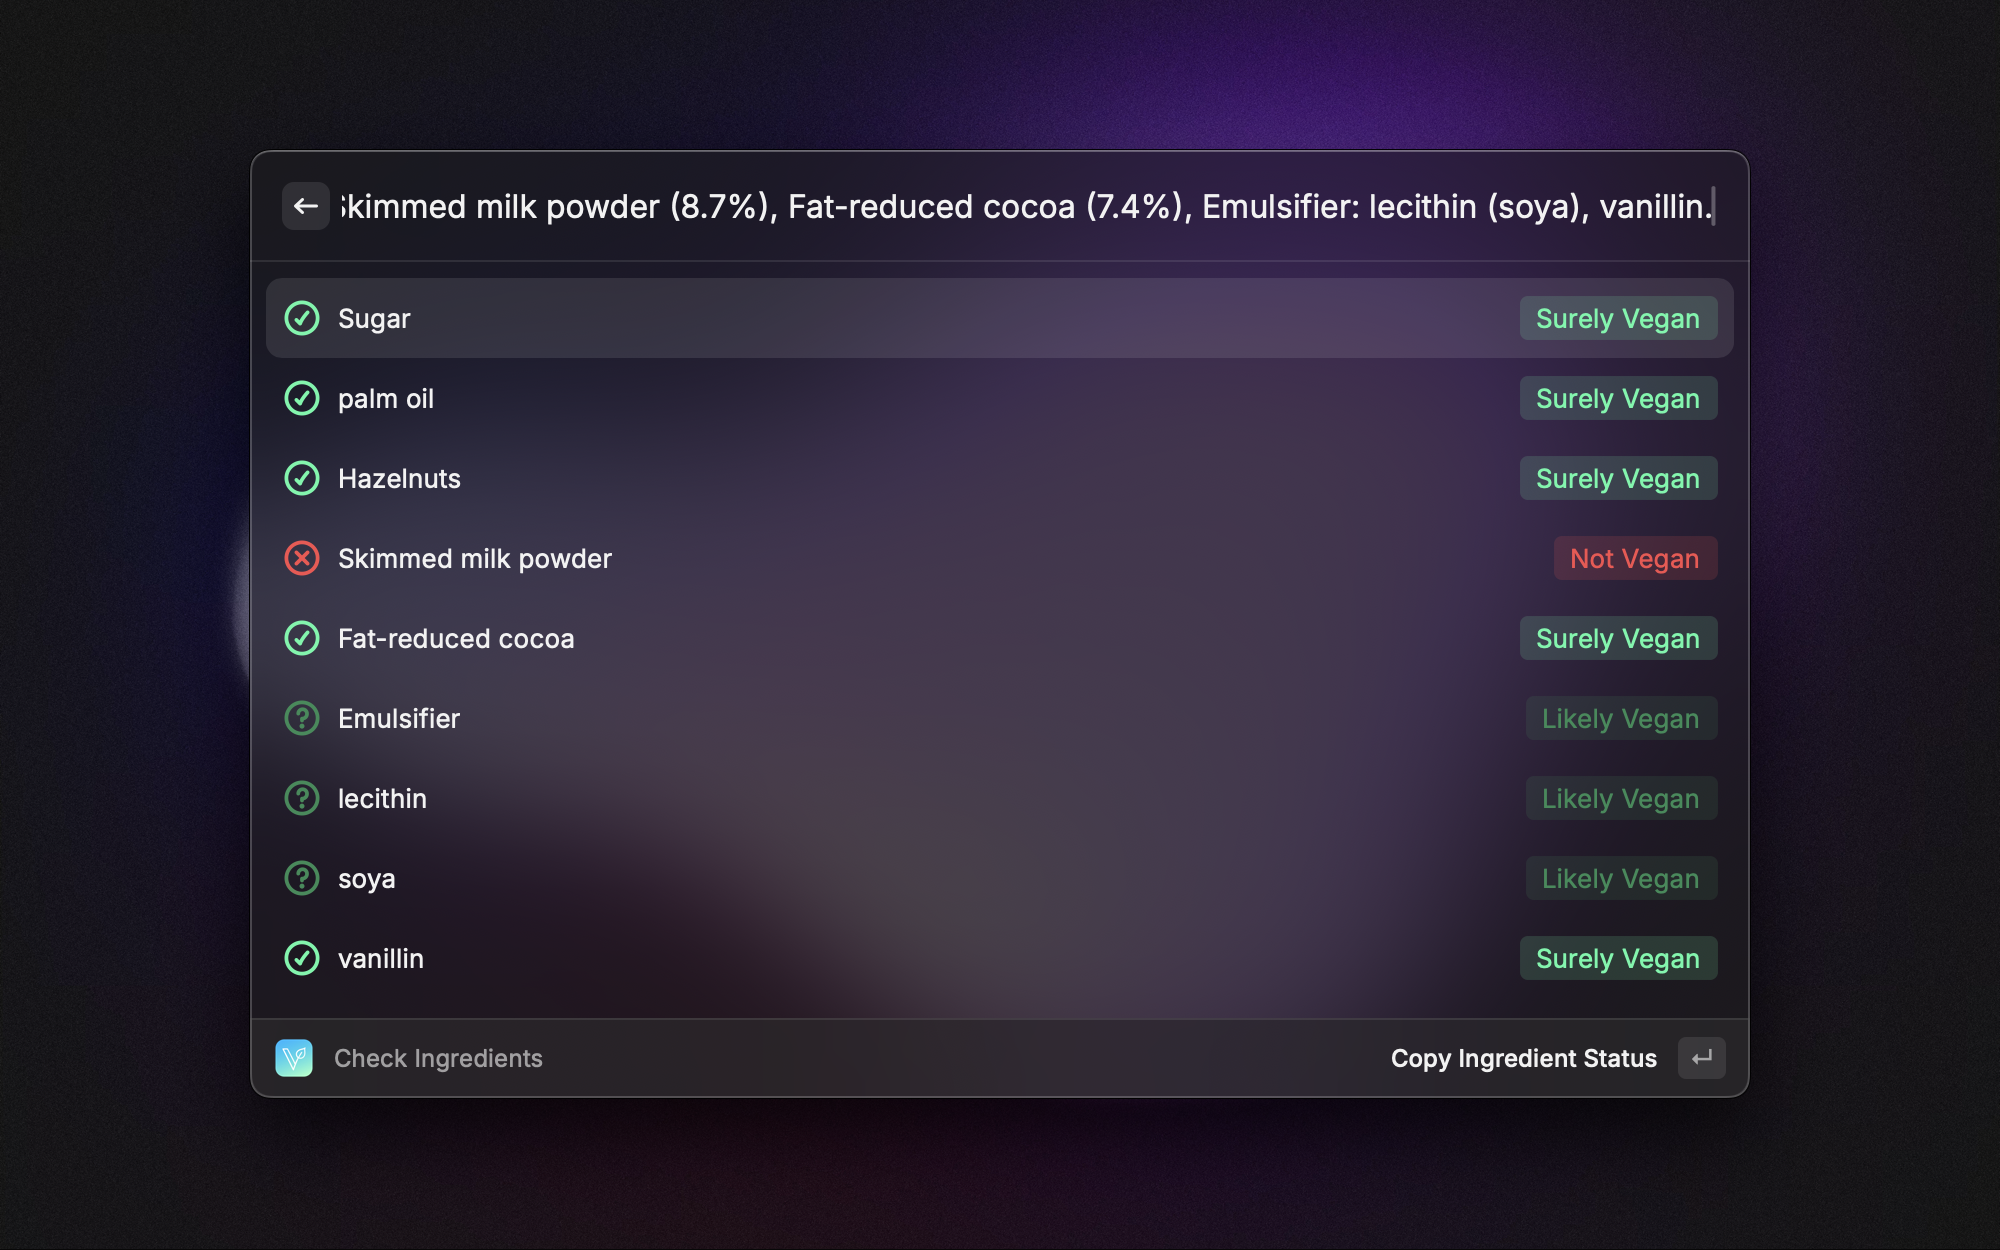
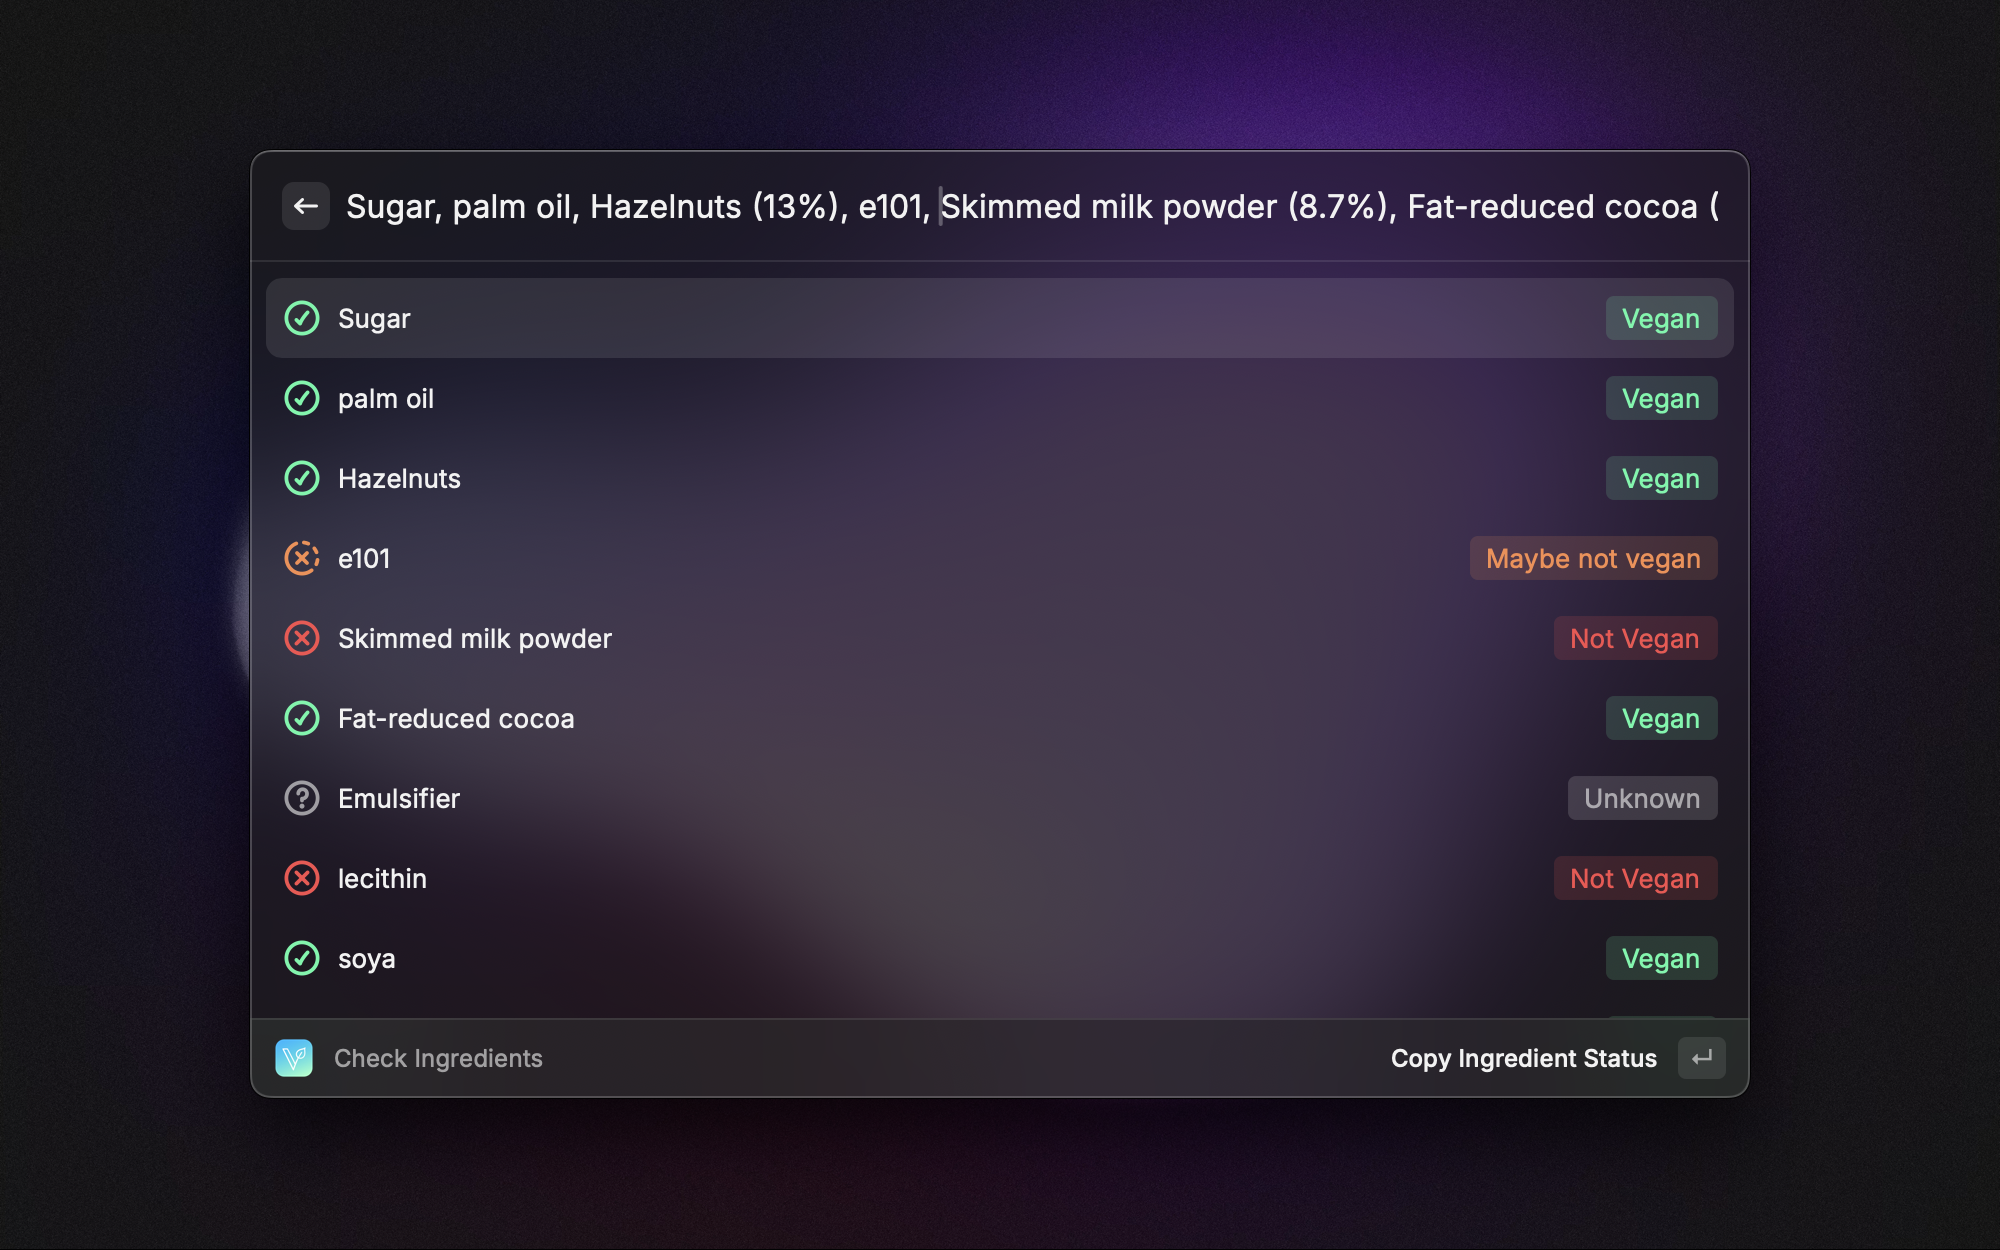
feat: Upgrade to Veganify API v1

diff --git a/src/utils/api.ts b/src/utils/api.ts
@@ -3,7 +3,7 @@ import { showToast, Toast } from "@raycast/api";
 import { IngredientResult } from "../models/IngredientResult";
 import { IngredientsCheckResponse } from "../models/IngredientsCheckResponse";
 
-const API_BASE_URL = "https://api.veganify.app/v0";
+const API_BASE_URL = "https://api.veganify.app/v1";
 
 export async function checkIngredient(ingredient: string): Promise<IngredientResult> {
   try {
@@ -38,7 +38,9 @@ export async function checkIngredient(ingredient: string): Promise<IngredientRes
       name: ingredient,
       isVegan: data.data.vegan,
       surelyVegan: data.data.surely_vegan.includes(ingredient.toLowerCase()),
-      maybeVegan: data.data.maybe_vegan.includes(ingredient.toLowerCase()),
+      maybeNotVegan: data.data.maybe_not_vegan.includes(ingredient.toLowerCase()),
+      notVegan: data.data.not_vegan.includes(ingredient.toLowerCase()),
+      unknown: data.data.unknown.includes(ingredient.toLowerCase()),
     };
   } catch (error) {
     console.error(`Error checking ingredient ${ingredient}:`, error);
@@ -61,7 +63,9 @@ export async function checkIngredient(ingredient: string): Promise<IngredientRes
       name: ingredient,
       isVegan: null,
       surelyVegan: false,
-      maybeVegan: false,
+      maybeNotVegan: false,
+      notVegan: false,
+      unknown: false,
       error: error instanceof Error ? error.message : "An unknown error occurred",
     };
   }

diff --git a/src/utils/displayHelpers.ts b/src/utils/displayHelpers.ts
@@ -21,11 +21,18 @@ export function getIngredientDisplay(ingredient: IngredientResult): IngredientDi
       accessories: [{ tag: { value: "Vegan", color: Color.Green } }],
     };
   }
-  if (ingredient.maybeVegan) {
+  if (ingredient.maybeNotVegan) {
     return {
-      icon: { source: Icon.QuestionMark, tintColor: Color.Orange },
+      icon: { source: Icon.XMarkCircleHalfDash, tintColor: Color.Orange },
+      statusText: "Maybe not vegan",
+      accessories: [{ tag: { value: "Maybe not vegan", color: Color.Orange } }],
+    };
+  }
+  if (ingredient.unknown) {
+    return {
+      icon: { source: Icon.QuestionMark, tintColor: Color.SecondaryText },
       statusText: "Unknown",
-      accessories: [{ tag: { value: "Unknown", color: Color.Orange } }],
+      accessories: [{ tag: { value: "Unknown", color: Color.SecondaryText } }],
     };
   }
   if (ingredient.isVegan === true) {

diff --git a/src/components/EmptyList.tsx b/src/components/EmptyList.tsx
@@ -4,7 +4,7 @@ export default function EmptyList({ searchText }: { searchText: string }) {
   return (
     <List.EmptyView
       icon={"vgc.svg"}
-      title={searchText.trim() === "" ? "Loading..." : "Welcome to Veganify"}
+      title={searchText.trim() === "" ? "Welcome to Veganify" : "Loading..."}
       description="Just enter the ingredients you want to check, separated by commas. Veganify will instantly show you the vegan status of each ingredient."
     />
   );

diff --git a/src/models/IngredientResult.ts b/src/models/IngredientResult.ts
@@ -2,6 +2,8 @@ export interface IngredientResult {
   name: string;
   isVegan: boolean | null;
   surelyVegan: boolean;
-  maybeVegan: boolean;
+  notVegan: boolean;
+  maybeNotVegan: boolean;
+  unknown: boolean;
   error?: string;
 }

diff --git a/src/models/IngredientsCheckResponse.ts b/src/models/IngredientsCheckResponse.ts
@@ -6,6 +6,7 @@ export interface IngredientsCheckResponse {
     vegan: boolean;
     surely_vegan: string[];
     not_vegan: string[];
-    maybe_vegan: string[];
+    maybe_not_vegan: string[];
+    unknown: string[];
   };
 }

diff --git a/CHANGELOG.md b/CHANGELOG.md
@@ -1,5 +1,14 @@
 # Veganify Changelog
 
+## [Adapated Extensions to Veganify Ingredients API v1] - {PR_MERGE_DATE}
+
+- Updated the extensions to use the Veganify Ingredients API v1
+- Now shows the vegan status of the ingredients in the recipe categorized in the following way:
+  - Vegan
+  - Not Vegan
+  - May not be vegan
+  - Unknown
+
 ## [Added Veganify] - 2024-10-08
 
 - Initial version of the Veganify extension
